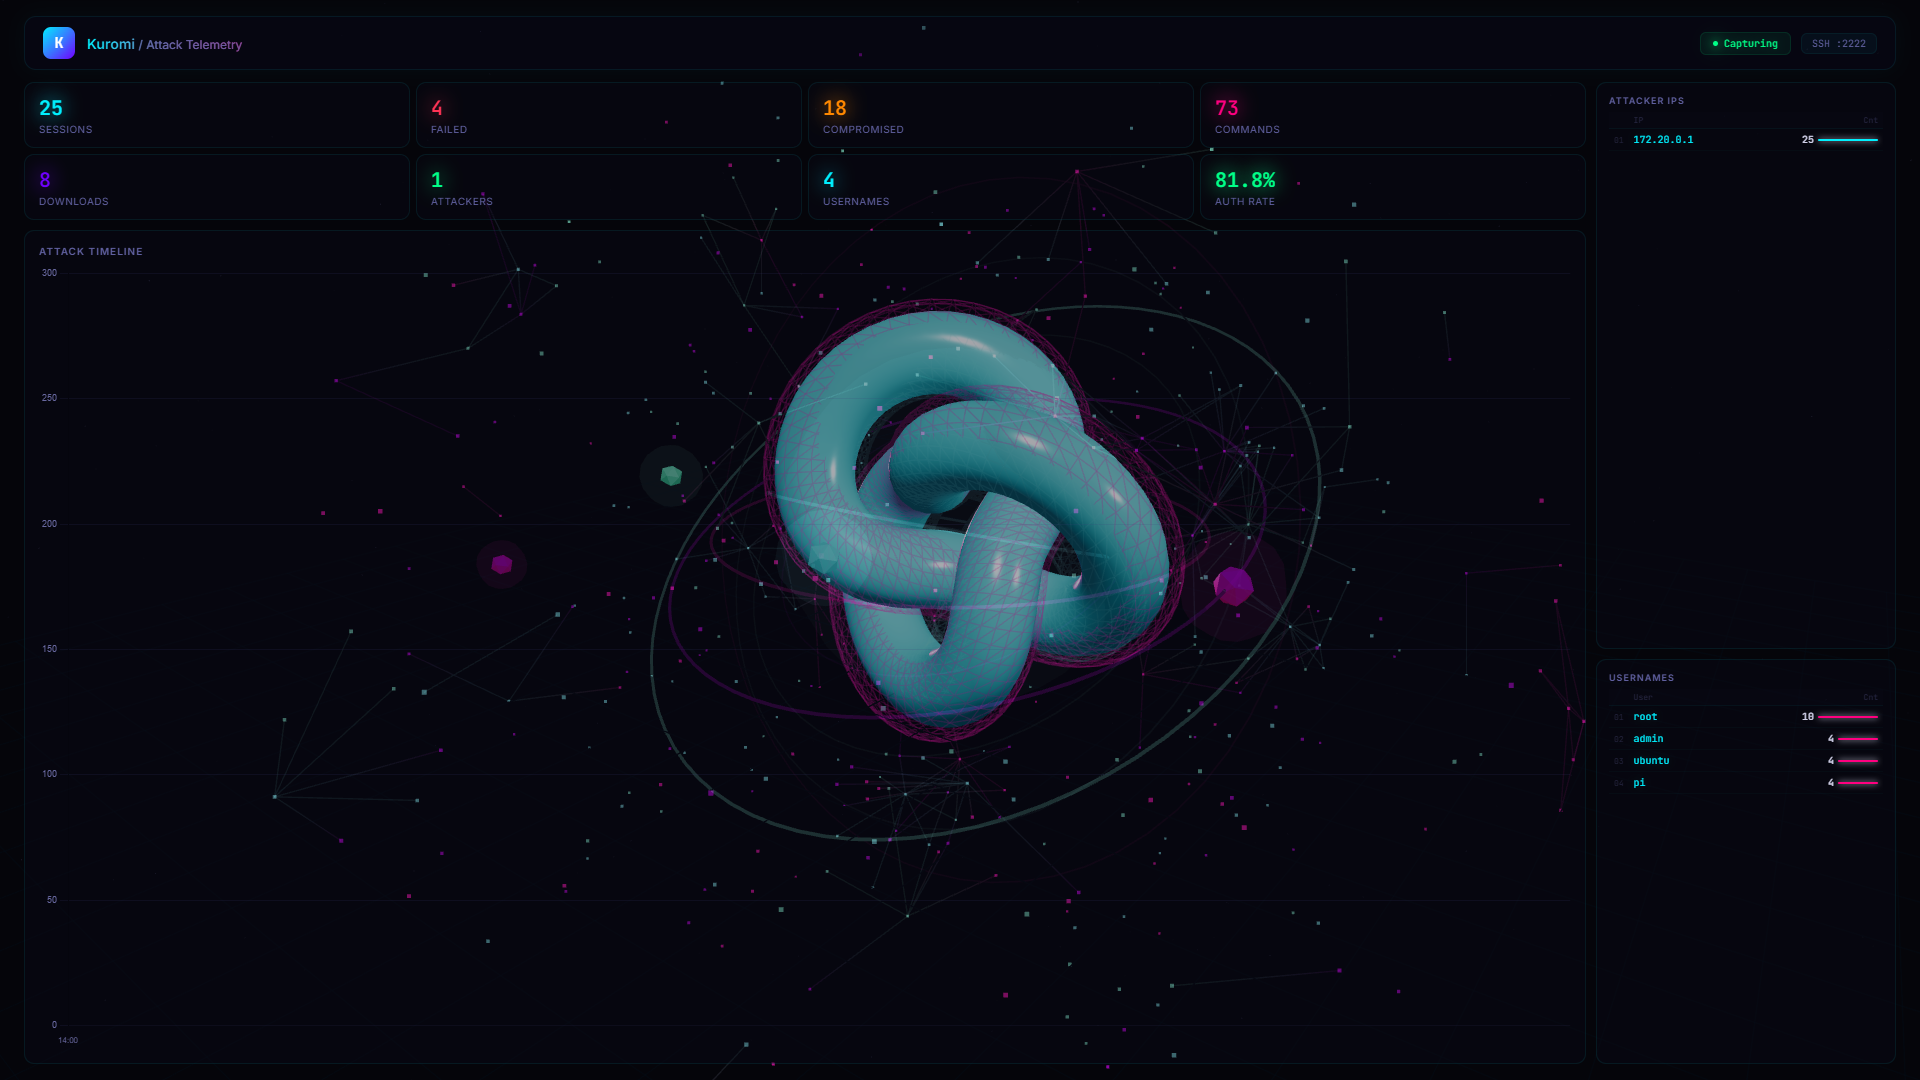
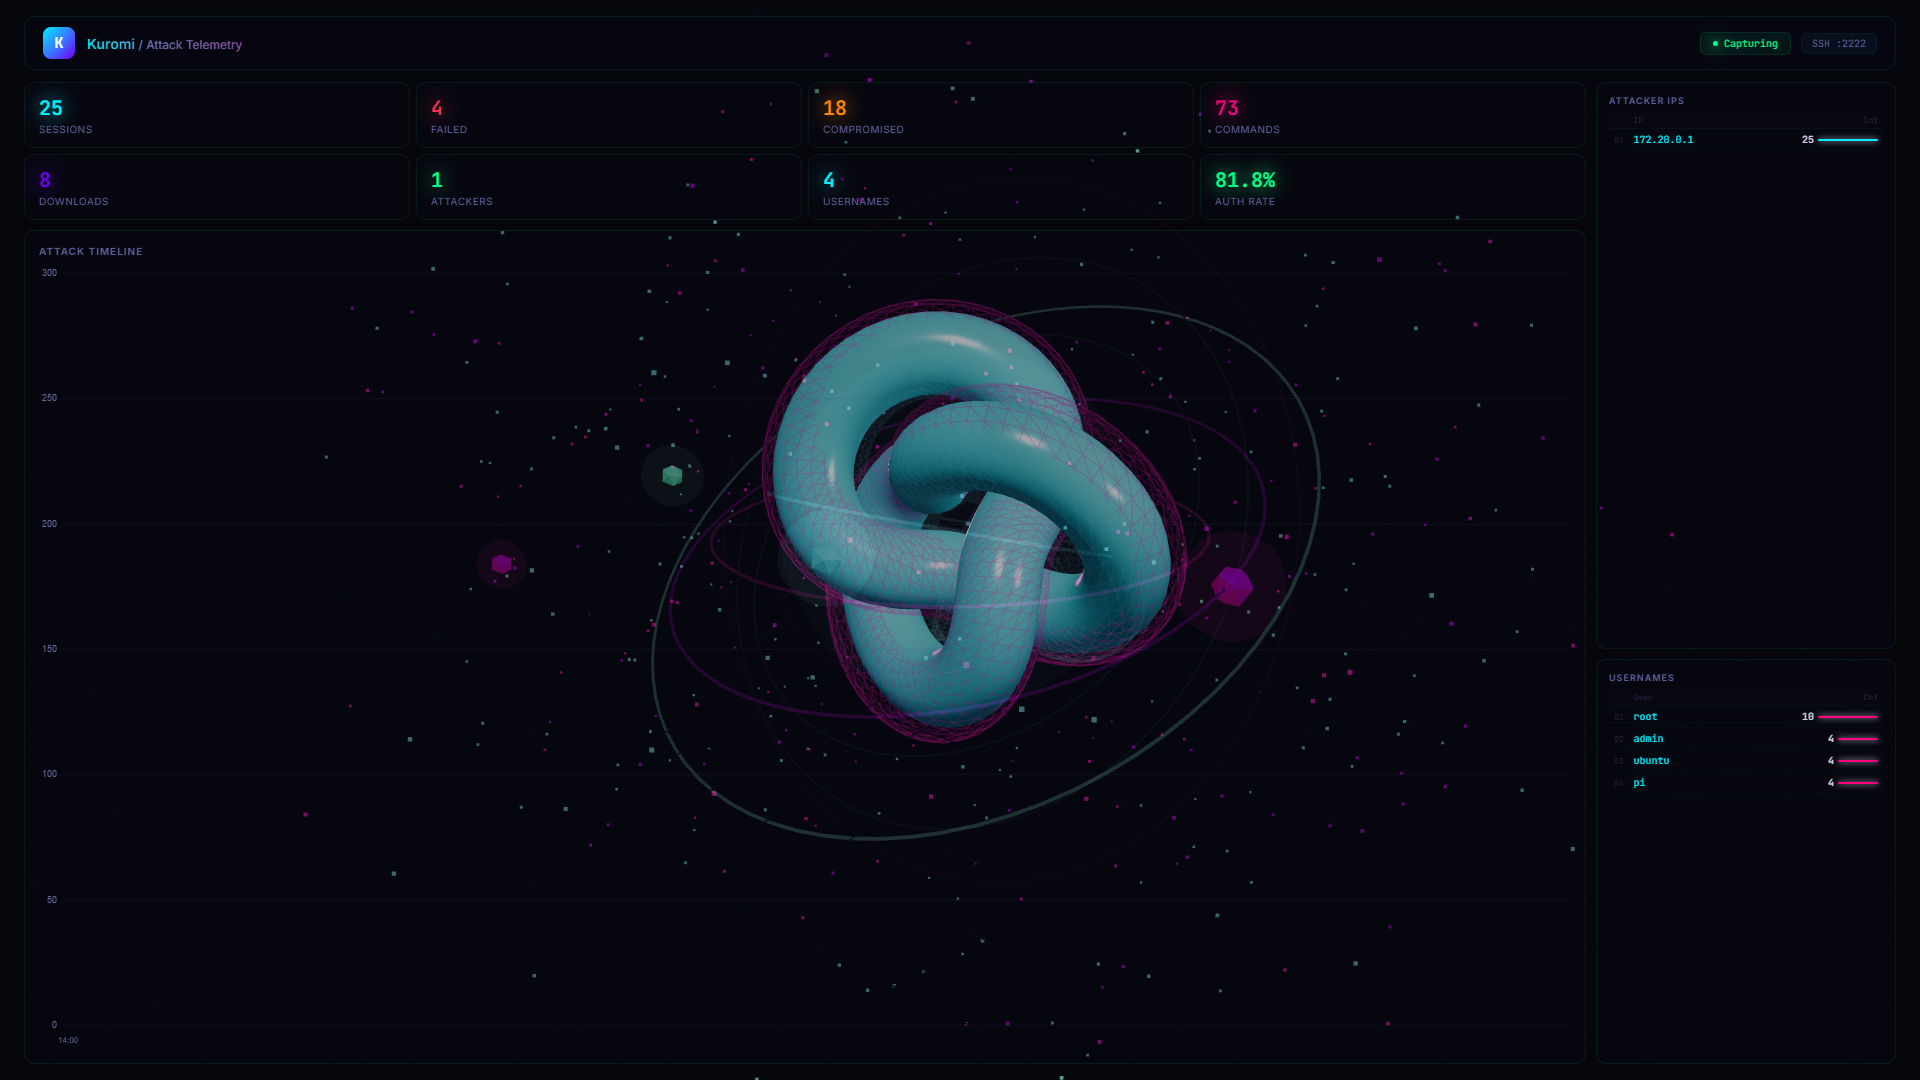
fix: bug fixes and performance optimization
- Fix: unique_passports now uses password_counter (not username_counter)
- Fix: throttle updateLines() to every 15 frames (was 60fps O(n^2))
- Fix: guard renderStats against null stats object
- Fix: guard canvas sizing when parent has zero dimensions
- Fix: remove unused pcols variable
- Update: new cyberpunk color palette on chart (cyan) and table bars
- Optimize: reduce unnecessary DOM lookups in resize handler

diff --git a/dashboard/templates/index.html b/dashboard/templates/index.html
@@ -321,10 +321,11 @@ tr:hover td{background:rgba(0,240,255,.04)}
   });
 
   // ANIMATION
-  var t = 0;
+  var t = 0, frameCount = 0;
   function anim() {
     requestAnimationFrame(anim);
     t += 0.008;
+    frameCount++;
 
     // Torus knot rotation
     knot.rotation.x += 0.004;
@@ -356,7 +357,6 @@ tr:hover td{background:rgba(0,240,255,.04)}
 
     // Particles drift
     var ppos = pts.geometry.attributes.position.array;
-    var pcols = pts.geometry.attributes.color.array;
     for (var i = 0; i < pc; i++) {
       ppos[i*3] += vels[i*3] + Math.sin(t * 0.2 + i * 0.05) * 0.0003;
       ppos[i*3+1] += vels[i*3+1] + Math.cos(t * 0.15 + i * 0.07) * 0.0003;
@@ -368,7 +368,7 @@ tr:hover td{background:rgba(0,240,255,.04)}
       }
     }
     pts.geometry.attributes.position.needsUpdate = true;
-    updateLines();
+    if (frameCount % 15 === 0) updateLines();
 
     // Orbiters
     for (var i = 0; i < orbiters.length; i++) {
@@ -420,6 +420,7 @@ var D = [
 var chartInstance = null;
 
 function renderStats(stats) {
+  if (!stats) return;
   var row = document.getElementById('statsRow');
   if (!row) return;
   row.innerHTML = D.map(function(m) {
@@ -432,10 +433,12 @@ function renderTimeline(timeline) {
   if (!canvas || !timeline || !timeline.length) return;
   if (chartInstance) chartInstance.destroy();
   var parent = canvas.parentElement;
-  canvas.width = parent.clientWidth * 2;
-  canvas.height = parent.clientHeight * 2;
-  canvas.style.width = parent.clientWidth + 'px';
-  canvas.style.height = parent.clientHeight + 'px';
+  var pw = parent.clientWidth || 300;
+  var ph = parent.clientHeight || 150;
+  canvas.width = pw * 2;
+  canvas.height = ph * 2;
+  canvas.style.width = pw + 'px';
+  canvas.style.height = ph + 'px';
   var ctx = canvas.getContext('2d');
   var grad = ctx.createLinearGradient(0, 0, 0, canvas.height);
   grad.addColorStop(0, 'rgba(0,240,255,0.15)');
@@ -491,8 +494,7 @@ var resizeTimer;
 window.addEventListener('resize', function() {
   clearTimeout(resizeTimer);
   resizeTimer = setTimeout(function() {
-    var canvas = document.getElementById('ct');
-    if (canvas && chartInstance) { chartInstance.resize(); }
+    if (chartInstance) { chartInstance.resize(); }
   }, 500);
 });
 </script>

diff --git a/dashboard/app.py b/dashboard/app.py
@@ -110,7 +110,7 @@ def analyze():
             "downloads": downloads,
             "unique_ips": len(ip_counter),
             "unique_usernames": len(username_counter),
-            "unique_passwords": len(username_counter),
+            "unique_passwords": len(password_counter),
             "auth_rate": auth_rate,
         },
         "top_ips": [